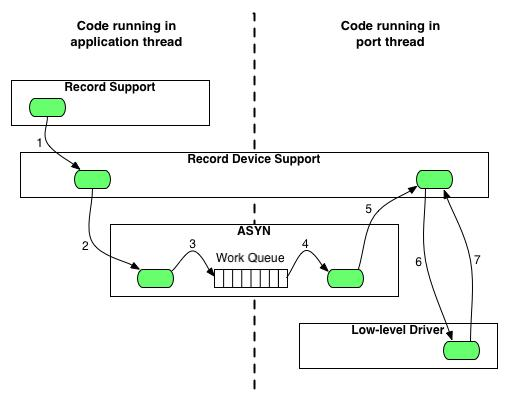
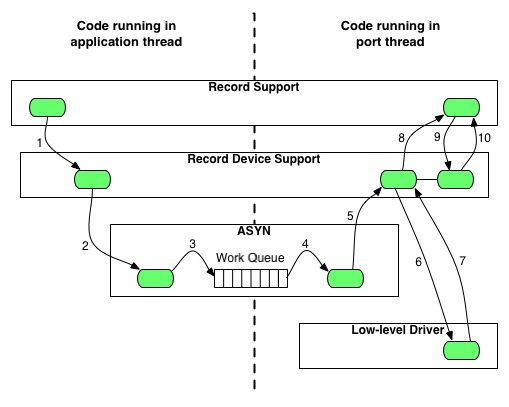
Update figure/text as suggested by Mark/Marty.

diff --git a/trunk/documentation/asynDriver.html b/trunk/documentation/asynDriver.html
@@ -390,7 +390,6 @@ if low level drivers are only accessed by calling queueRequest.
 
 <center>
 <img name="AsynFlow" src="AsynFlow.jpg" border="1">
-MARTY AND ERIC: THIS FIGURE NEEDS UPDATING TO SHOW STEPS 8 AND 9 BELOW.
 
 <p>Figure 1:  Asynchronous Control Flow</p>
 </center>
@@ -414,6 +413,7 @@ following steps:
     completes record processing.</li>
   <li>processCallback calls the record support process method.</li>
   <li>Record support calls Record device support again, this time with record.PACT=1.</li>
+  <li>Record device support updates files in the record and returns.</li>
 </ol>
 
 <p>The second example shows access to a port that can block.</p>
